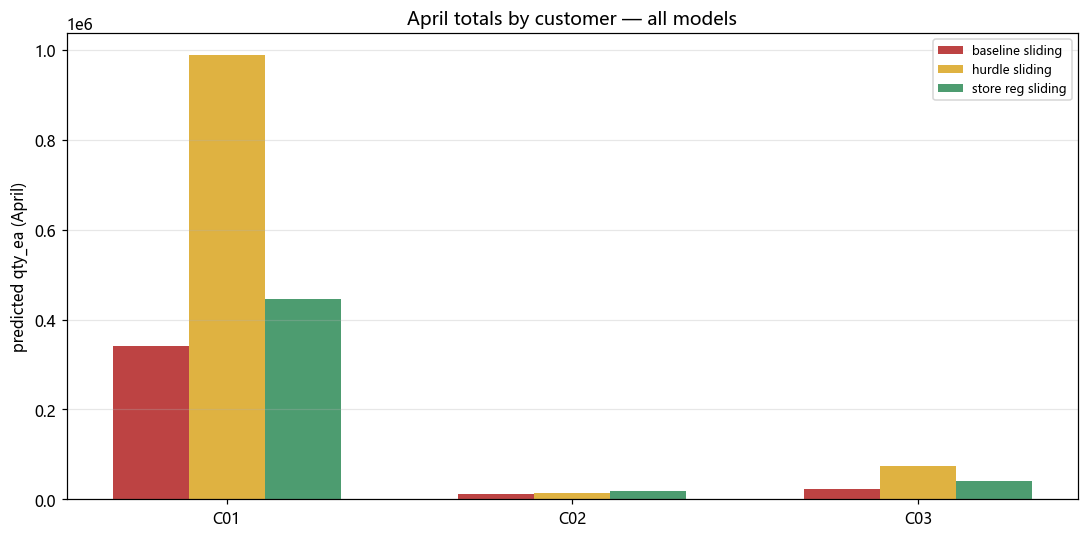
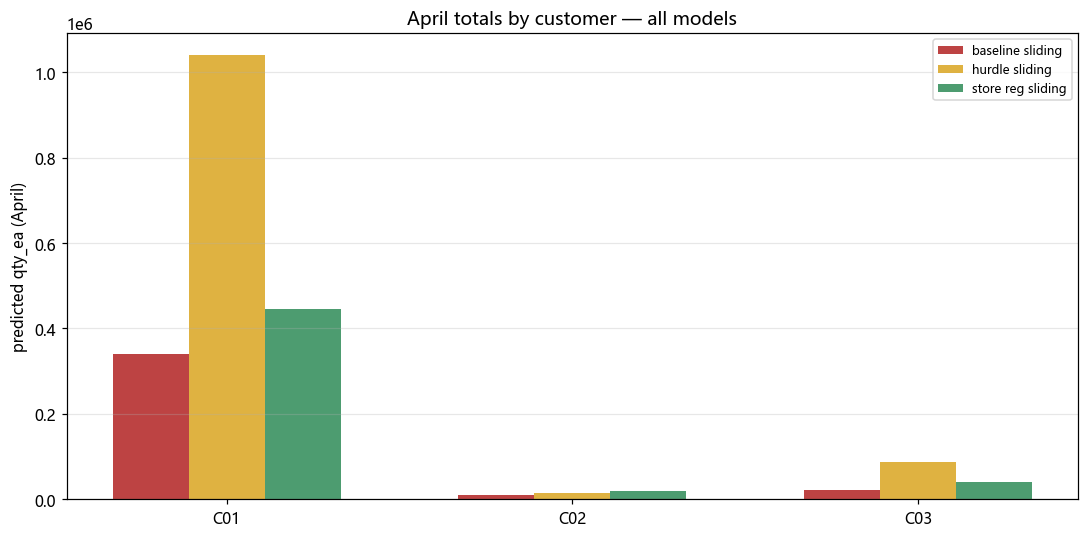
changed regressor

diff --git a/src/04b_hurdle_model.py b/src/04b_hurdle_model.py
@@ -116,7 +116,7 @@ P_ORDER_MIN = 8e-5
 REG_QTY_WEIGHT_POWER = 1.0
 TRAIN_MONITOR_STEP_ROUNDS = 50
 TRAIN_MONITOR_CLF_ROUNDS = 200
-TRAIN_MONITOR_REG_ROUNDS = 450
+TRAIN_MONITOR_REG_ROUNDS = 1000
 TRAIN_CONVERGENCE_REL_TOL = 0.005
 TRAIN_CONVERGENCE_PATIENCE = 3
 ROLL_QTY_MIN_FRAC_SEED = 0.35  # rolling buffer qty >= max(pred, frac * seed_qty)
